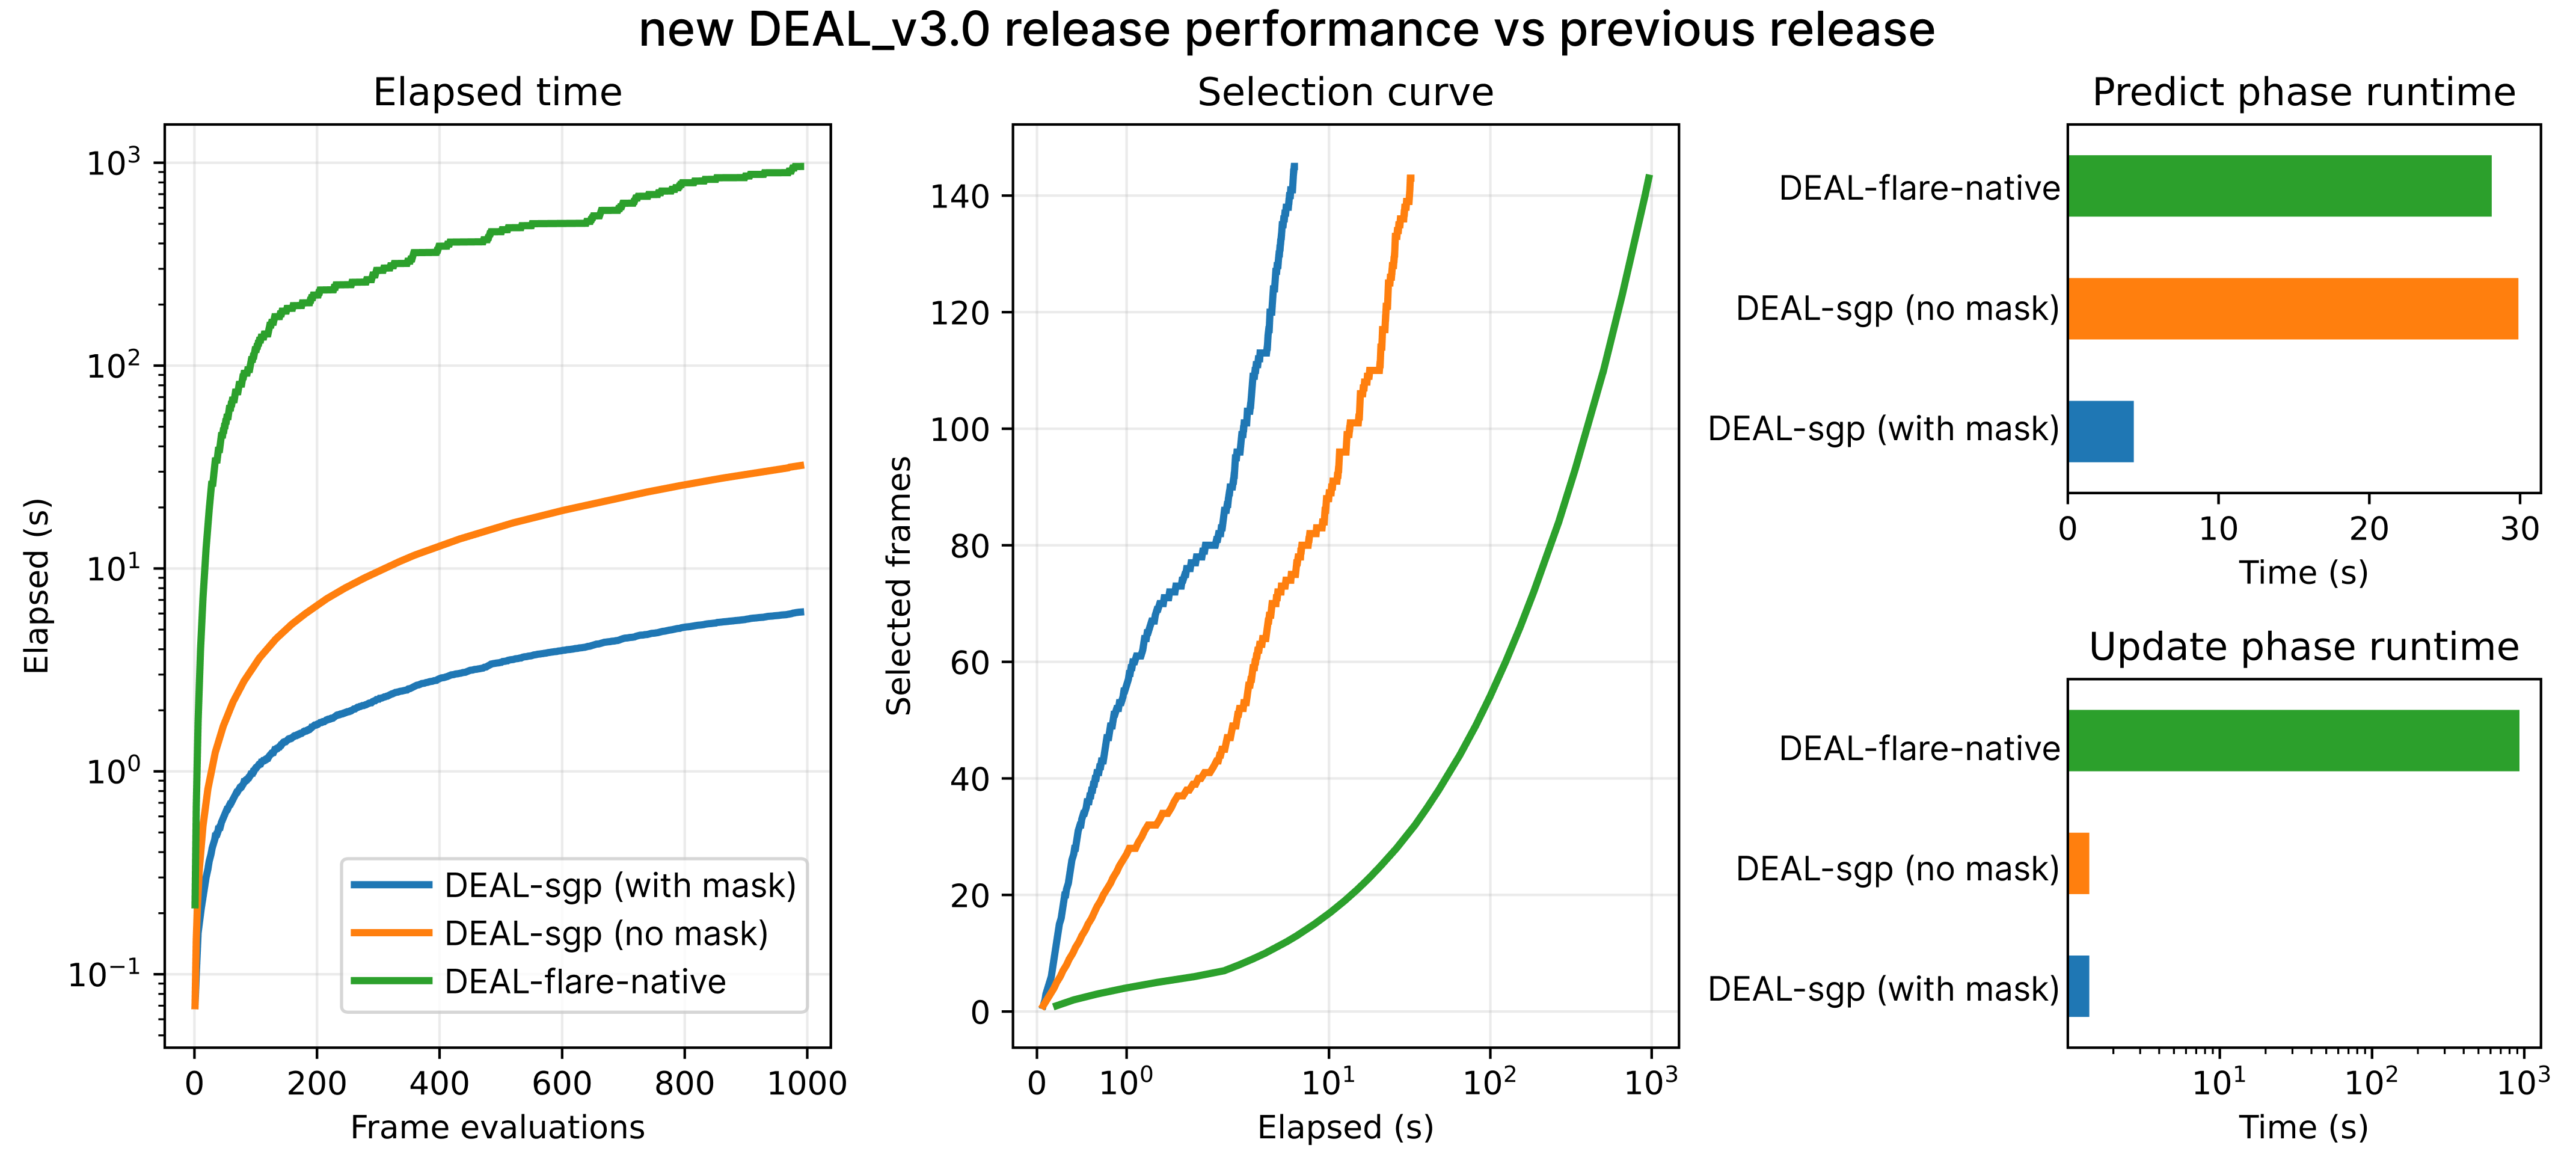
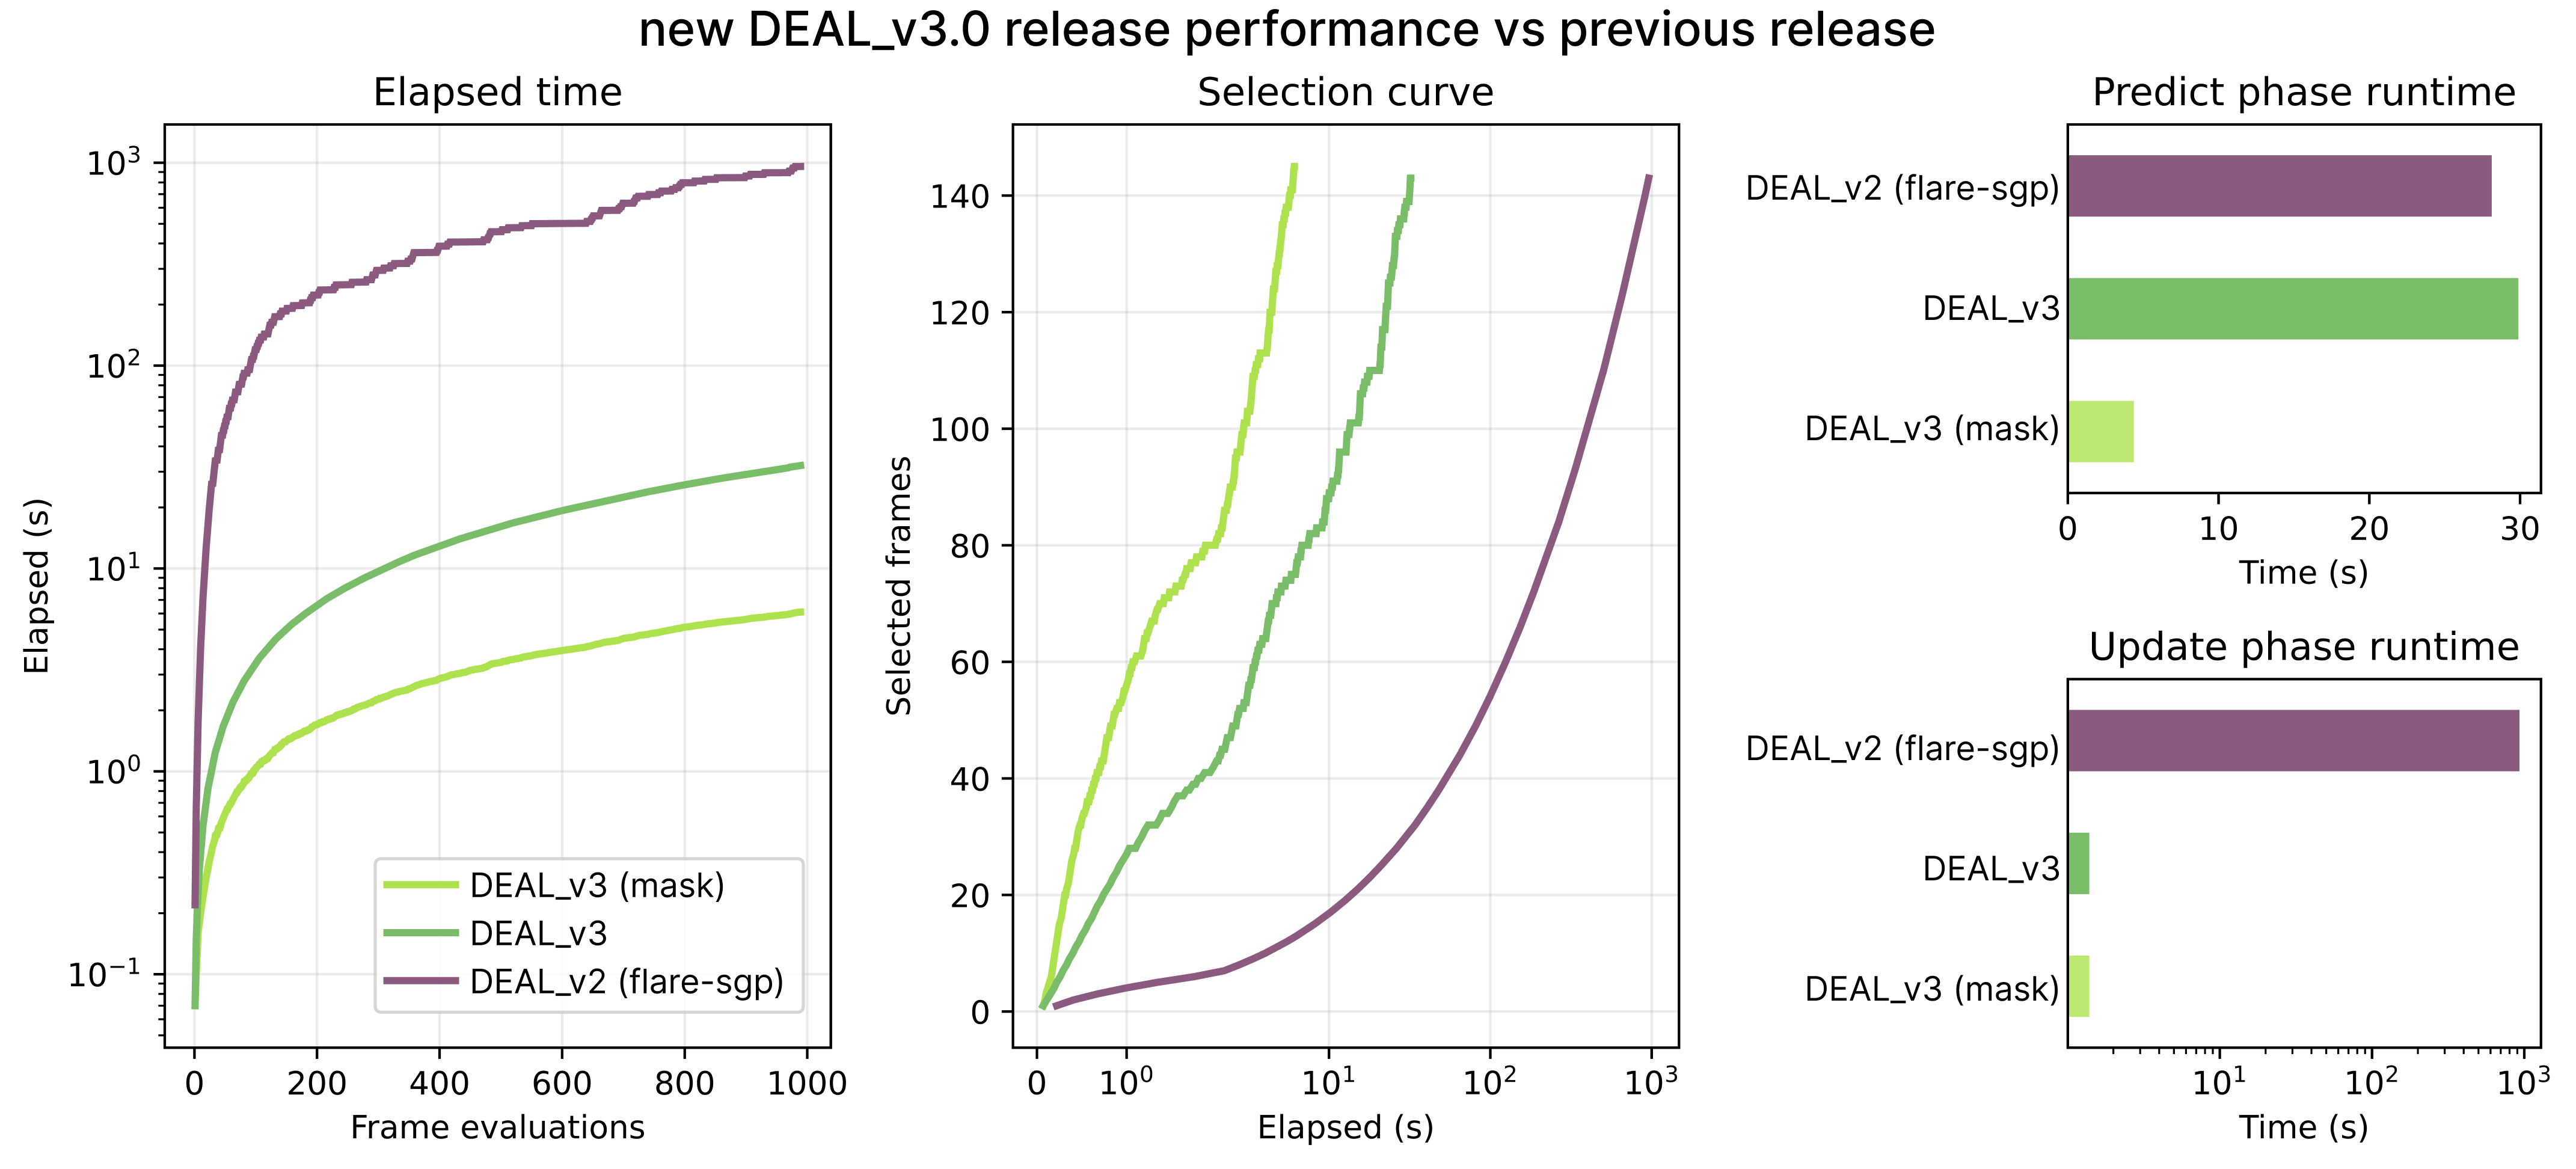
Polish documentation and timing plot

diff --git a/README.md b/README.md
@@ -7,11 +7,11 @@
 > **npj Computational Materials 10, 291 (2024)**
 > doi: [10.1038/s41524-024-01481-6](https://doi.org/10.1038/s41524-024-01481-6)
 
-DEAL selects non-redundant structures from atomistic trajectories via Sparse Gaussian Processes (SGP), to be used to train machine-learning interatomic potentials.
+DEAL selects non-redundant structures from atomistic trajectories via sparse Gaussian processes (SGP), to be used to train machine-learning interatomic potentials.
 
 It consists of two steps:
-1. preselection using the MLP uncertainty (e.g. max uncertainty obtained with query-by-committee)
-2. select a dataset of non-redundant configurations using the local predictive variance of a Gaussian Process
+1. preselect configurations using MLP uncertainty (e.g. maximum uncertainty obtained with query-by-committee)
+2. select a dataset of non-redundant configurations using the local predictive variance of a Gaussian process
 
 In addition, step 2 can also be used to subsample a trajectory without uncertainty preselection (see the [tutorials](tutorials/README.md)).
 
@@ -115,7 +115,7 @@ Python 3.10, 3.12, and 3.14.
 
 ##  Usage
 
-DEAL can be run either with a command-line tool (`deal`) or using the python class (`DEAL`).
+DEAL can be run either with the command-line tool (`deal`) or with the Python class (`DEAL`).
 
 ---
 
@@ -154,7 +154,7 @@ data:
   #format: "extxyz"        # file format (e.g. extxyz, xyz, ...)
   #index: ":"              # frame selection [see ASE notation]
   #shuffle: false          # whether to shuffle the frames before processing 
-  #seed: 24
+  #seed: 24              # random seed used when shuffle is true
 
 # Optional: derive the candidate mask in memory from an existing per-atom
 # uncertainty array. This avoids writing an intermediate masked trajectory.
@@ -177,12 +177,12 @@ deal:
   #threshold_factor: 0.7  # threshold_i = threshold_factor**(i+1)
   
   update_threshold: null # if not set it is chosen as 0.8 * threshold
-  max_atoms_added: 0.2    # limit the number of selected environments added per configuration (can be int (number of atoms) float (0,1) (fraction of total atoms), or -1 (no limit)
+  max_atoms_added: 0.2    # limit selected environments added per configuration: integer count, fraction in (0,1), or -1 for no limit
   mask: null              # auto: preprocessing mask if configured; otherwise all atoms
   initial_atoms: null     # specify which atoms to use for GP initialization (list, fraction or number. Default: null, 1 atom per species)
   output_prefix: deal     # prefix for output files
   force_only: true
-  train_hyps: false       # whether to re-train hyperparameters at each iteration (slower) 
+  train_hyps: false       # whether to retrain hyperparameters at each iteration (slower)
   verbose: false          # allowed values: true/false/"debug"
   save_gp: false
   save_full_trajectory: false  # if true, writes <prefix>_trajectory_uncertainty.xyz with per-atom array "atomic_uncertainty"
@@ -250,9 +250,9 @@ deal:
   mask: true
 ```
 
-When `mask_threshold` is omitted, DEAL follows the automatic rule from
-`Preprocessing/evaulate_traj.ipynb`: it computes the mean of the maximum
-per-atom uncertainty in each frame, selects frames whose maximum lies between
+When `mask_threshold` is omitted, DEAL follows the automatic preprocessing
+rule: it computes the mean of the maximum per-atom uncertainty in each frame,
+selects frames whose maximum lies between
 `1.1` and `4.0` times that mean, and selects atoms above `0.3` times their
 frame's maximum. These constants can be changed with `lower_factor`,
 `upper_factor`, and `mask_fraction`.
@@ -325,7 +325,7 @@ deal:
     - 0.20
 ```
 
-Equivalent behaviour in Python:
+Equivalent behavior in Python:
 
 ```python
 for thr in [0.10, 0.15, 0.20]:
@@ -357,7 +357,7 @@ Note: `threshold` and `max_selected` are mutually exclusive in the CLI.
 
 ### Input files
 
-As explained in the [introduction](DEAL.md), DEAL builds a model for energy and forces using a sparse Gaussian process, although this is used only as a proxy for uncertainty. For this reason, DEAL expects to receive a trajectory as input, for example stored in an .extxyz file, containing both energies and forces. However, since the predictive uncertainty does not depend on the labels, these do not need to be recalculated at the DFT level; in fact, they could be obtained by evaluating the trajectory with an ML potential. 
+As explained in the [introduction](DEAL.md), DEAL builds a model for energy and forces using a sparse Gaussian process, although this is used only as a proxy for uncertainty. For this reason, DEAL expects to receive a trajectory as input, for example stored in an .extxyz file, containing both energies and forces. However, since the predictive uncertainty does not depend on the labels, these do not need to be recalculated at the DFT level; in fact, they could be obtained by evaluating the trajectory with an ML potential.
 
 ### Output files
 
@@ -387,8 +387,8 @@ Frames with no eligible atoms are skipped. If `mask: false`, every atom is
 eligible.
 
 With the B2 descriptor, masked prediction and local GP updates construct native
-neighbour lists and descriptors only for eligible central atoms. All atoms remain
-available as neighbours, so masked results are identical to filtering the full
+neighbor lists and descriptors only for eligible central atoms. All atoms remain
+available as neighbors, so masked results are identical to filtering the full
 calculation while the descriptor cost scales with the number of candidates.
 
 ### Create a chemiscope file
@@ -420,7 +420,7 @@ See also the Chemiscope [documentation](https://chemiscope.org/docs/).
 
 ## 🎛️ Choice of the parameters
 
-Below a quick guide, see the [introduction](DEAL.md) to DEAL for a more in-depth explanation.
+Below is a quick guide; see the [introduction](DEAL.md) for a more in-depth explanation.
 
 **Descriptors**
 
@@ -440,19 +440,19 @@ Local environments are characterized via the Atomic Cluster Expansion formalism 
 ```yaml
   threshold: 0.1
   update_threshold: 0.08  # if not set it is chosen as 0.8 * threshold      
-  max_atoms_added: -1 # no limit on the number of selected environment of a given configuration to the GP.
+  max_atoms_added: -1 # no limit on the number of selected environments added from a given configuration to the GP.
   initial_atoms: 0.15 # use up to 15% of the atoms (of each species) for GP initialization
   mask: null # preprocessing mask if configured; otherwise all atoms
 ```      
 
-The`threshold` parameter in the DEAL configuration controls when a local environment is flagged by the SGP’s predictive variance (normalized by the noise hyperparameter). If any environment exceeds the threshold, the GP is updated and that environment (plus any others above `update_threshold`, up to `max_atoms_added`) is added. 
+The `threshold` parameter in the DEAL configuration controls when a local environment is flagged by the SGP’s predictive variance (normalized by the noise hyperparameter). If any environment exceeds the threshold, the GP is updated and that environment (plus any others above `update_threshold`, up to `max_atoms_added`) is added.
 
 Some tips:
 
-- The uncertainty values are unitless, and range between 0 and 1. Lower threshold means more selected structures; higher threshold, fewer selections. 
-- A good starting point is around 0.1. As a rule of thumb, homogeneous, condensed and/or crystalline systems tend to have fewer different local environments and require smaller thresholds (<<0.1), whereas heterogeneous systems may require larger ones (>0.1). This is also connected with the number of species (more species -> higher treshold required).
+- The uncertainty values are unitless and range between 0 and 1. Lower threshold means more selected structures; higher threshold, fewer selections.
+- A good starting point is around 0.1. As a rule of thumb, homogeneous, condensed and/or crystalline systems tend to have fewer different local environments and require smaller thresholds (<<0.1), whereas heterogeneous systems may require larger ones (>0.1). This is also connected with the number of species (more species -> higher threshold required).
 - Try a few values and compare how many structures are selected; distributions often are very similar across thresholds, what changes is the number of structures. One can decide based on the computational budget (for DFT calculations).
-- A practical strategy is to perform **incremental selection**: start with a high threshold, then decrease it progressively until a target number of structures is reached (see [Tutorial 4](tutorials/4_incremental_selection/README.md)).
+- The recommended strategy is **incremental selection**: start with a high threshold, then decrease it progressively until a target number of structures is reached. This is easily achieved with the CLI by setting `max_selected` (or `--max-selected`; see the [minimal examples](examples/README.md) and [Tutorial 4](tutorials/4_incremental_selection/README.md)).
 - Use chemiscope/OVITO to visualize the selected structures and identify which environments triggered selection. 
 
-Note: the training time scales unfavorably with the number of samples. For a large dataset, it is advised to divide it in chuncks and run DEAL separately on each of them, and then performing a second DEAL selection on the output structures. 
+Note: the training time scales unfavorably with the number of samples. For a large dataset, it is advised to divide it into chunks, run DEAL separately on each chunk, and then perform a second DEAL selection on the output structures.

diff --git a/DEAL.md b/DEAL.md
@@ -25,8 +25,8 @@ We first introduce the ingredients used by DEAL, particularly the sparse Gaussia
 In the Atomic Cluster Expansion formalism, each atom $i$ is represented by a descriptor vector $\mathbf{d}_i$ built from its local environment $\rho_i$, that is, the list of neighbors within a cutoff radius:
 <p align="center"> <img src="imgs/ACE.png" width="300"/> </p>
 
-At high level, these descriptors encode:
-- radial information (how neighbor density varies with distance,
+At a high level, these descriptors encode:
+- radial information (how neighbor density varies with distance),
 - angular information (how neighbors are arranged in direction),
 - chemical identity (which species contribute to the local density).
 
@@ -36,7 +36,7 @@ Relevant config parameters are:
 - `sgp.descriptors.lmax` (angular resolution)
 
 Notes:
-- **Multiple species**. For multi-component systems, neighbor density of different species are concatenated, so environments with similar geometry but different chemistry remain distinguishable.
+- **Multiple species**. For multi-component systems, neighbor densities of different species are concatenated, so environments with similar geometry but different chemistry remain distinguishable.
 - **Radial resolution**. For fixed `nmax`, increasing `cutoff` expands the spatial domain represented by the same number of radial basis functions, decreasing radial detail per unit distance. A useful rule-of-thumb is: $\Delta r \sim \frac{r_c}{n_{\max}}$, where $r_c$ is the cutoff. If `cutoff` is increased, `nmax` should be increased as well to avoid losing resolution.
 
 ### 2.2 Energy model and kernel representation
@@ -68,13 +68,13 @@ So the model compares each current environment against reference environments in
 
 ### 2.3 GP predictive variance 
 
-The key feature of a GP is that it provides a predictions of both the value and its associated uncertainty. For a query local environment $\rho$, the GP predictive variance associated with the the atomic energy contribution has the form:
+The key feature of a GP is that it provides predictions of both the value and its associated uncertainty. For a query local environment $\rho$, the GP predictive variance associated with the atomic energy contribution has the form:
 
 $$
 \mathrm{Var}[\varepsilon(\rho)] =\frac{k(\rho,\rho)-\mathbf{k}^\top\mathbf{K}^{-1}\mathbf{k}}{ \sigma^2}
 $$
 
-which depends on the matrix of kernel similarities between the enviroment and the reference set $\mathbf{k}$ (each element is $k(\rho,\rho_m)$ ), as well as the one between the reference structures themselves ($\mathbf{K}$). In other words, the predicted uncertainty is based only on structural novelty measured in local-environment space, not on the (DFT) energies. DEAL reports the variance normalized by the signal hyperparameter $\sigma$, yielding a unitless value.
+which depends on the matrix of kernel similarities between the environment and the reference set $\mathbf{k}$ (each element is $k(\rho,\rho_m)$ ), as well as the one between the reference structures themselves ($\mathbf{K}$). In other words, the predicted uncertainty is based only on structural novelty measured in local-environment space, not on the (DFT) energies. DEAL reports the variance normalized by the signal hyperparameter $\sigma$, yielding a unitless value.
 
 ## 3) How DEAL selection works
 
@@ -90,17 +90,17 @@ Relevant `deal` config parameters:
 - `deal.threshold`: uncertainty value which triggers selection. 
 - `deal.update_threshold`: threshold for adding additional environments from the same selected structure 
 - `deal.max_atoms_added`: cap on how many local environments are added per selected structure.
-- `deal.initial_atoms`: which atoms add to the sparse set in the first configuration (index or percentage).
+- `deal.initial_atoms`: which atoms are added to the sparse set in the first configuration (index or percentage).
 
 ## 4) Practical guidance for threshold choice and workflow
 
-- The uncertainty values are unitless, and range between 0 and 1. Lower threshold means more selected structures; higher threshold, fewer selections. 
-- A good starting point is around 0.1. As a rule of thumb, homogeneous, condensed and/or crystalline systems tend to have fewer different local environments and require smaller thresholds (<<0.1), whereas heterogeneous systems may require larger ones (>0.1). This is also connected with the number of species (more species -> higher treshold required).
+- The uncertainty values are unitless and range between 0 and 1. Lower threshold means more selected structures; higher threshold, fewer selections.
+- A good starting point is around 0.1. As a rule of thumb, homogeneous, condensed and/or crystalline systems tend to have fewer different local environments and require smaller thresholds (<<0.1), whereas heterogeneous systems may require larger ones (>0.1). This is also connected with the number of species (more species -> higher threshold required).
 - Try a few values and compare how many structures are selected; distributions often are very similar across thresholds, what changes is the number of structures. One can decide based on the computational budget (for DFT calculations).
-- A practical strategy is to perform **incremental selection**: start with a high threshold, then decrease it progressively until a target number of structures is reached (see example #4).
-- Use chemiscope to inspect selected structures and identify which environments triggered selection (see example #2)
+- The recommended strategy is **incremental selection**: start with a high threshold, then decrease it progressively until a target number of structures is reached. This is easily achieved with the CLI by setting `max_selected` (or `--max-selected`; see the [minimal examples](examples/README.md) and [Tutorial 4](tutorials/4_incremental_selection/README.md)).
+- Use chemiscope to inspect selected structures and identify which environments triggered selection (see [Tutorial 2](tutorials/2_subsampling_formate/README.md)).
 
-Note: the training time scales unfavorably with the number of samples. For a large dataset, it is advised to divide it in chuncks and run DEAL separately on each of them, and then performing a second DEAL selection on the output structures. 
+Note: the training time scales unfavorably with the number of samples. For a large dataset, it is advised to divide it into chunks, run DEAL separately on each chunk, and then perform a second DEAL selection on the output structures.
 
 ## References
 

diff --git a/npj_supporting_data/configs/deal/README.md b/npj_supporting_data/configs/deal/README.md
@@ -1,10 +1,10 @@
 ## DEAL configuration files
 
-This folder contains the config file for the DEAL (Data-Efficient Active Learning) scheme, which uses the uncertainty on the local environments provided by the GP as a way to identify a small set of non-redundant configurations from a trajectory (e.g. composed by high-uncertainty configurations). In particular, we use FLARE to train the GP.
+This folder contains the config files for the DEAL (Data-Efficient Active Learning) scheme, which uses the uncertainty of local environments provided by the GP to identify a small set of non-redundant configurations from a trajectory (e.g. one composed of high-uncertainty configurations). In particular, we use FLARE to train the GP.
 
 Two settings are available in the `configs/deal/`:
 
-* `deal-pretrain-dft.yaml`: the selection is made using a pre-trained GP model on DFT energies/forces, and performing the DFT calculations on-the-fly
+* `deal-pretrain-dft.yaml`: the selection is made using a GP model pretrained on DFT energies/forces while performing DFT calculations on the fly
 * `deal-nodft.yaml`: train a model from scratch, using the MD energy/forces as labels, and only at the end perform the single-point calculations on the selected structures
 
-These two strategies can deliver a very similar selection of the structures (see SI of the manuscript), but the second one is much faster as no DFT calculations are performed serially, but they can be done at the end in an embarassingly parallel way. 
+These two strategies can deliver a very similar selection of structures (see SI of the manuscript), but the second one is much faster because no DFT calculations are performed serially; they can be done at the end in an embarrassingly parallel way.

diff --git a/tutorials/4_incremental_selection/README.md b/tutorials/4_incremental_selection/README.md
@@ -1,6 +1,6 @@
 ## Incremental selection 
 
-In addition to the standard mode which requires to specify a threshold, one can also run in an incremental mode, that is, running DEAL in multiple iterations with progressively
+In addition to the standard mode, which requires specifying a threshold, DEAL can also run in incremental mode, using multiple iterations with progressively
 lower thresholds, so you can stop when a target number of selected structures is reached instead of picking a single threshold upfront.
 
 <img src="incremental_DEAL_selection.png" alt="drawing" width="450"/>
@@ -59,4 +59,4 @@ deal -c input.yaml
 
 ### Deprecated Python script
 
-This functionality was first implemented as example in `incremental_DEAL.py`. This is kept as a legacy example showing how to implement incremental selection manually with `configure_run(...)` and analyzing the result in more detail.
+This functionality was first implemented as an example in `incremental_DEAL.py`. This is kept as a legacy example showing how to implement incremental selection manually with `configure_run(...)` and analyze the result in more detail.

diff --git a/tutorials/README.md b/tutorials/README.md
@@ -6,7 +6,7 @@
 - Data: Nitrogen dissociation on FeCo(110) surface, collected via OPES enhanced sampling simulations, taken from Perego and Bonati, *npj Computational Materials* 10, 291 (2024), doi: [10.1038/s41524-024-01481-6](https://doi.org/10.1038/s41524-024-01481-6)
 
 - Summary: 
-    1. pre-select high uncertainty configurations based on ensemble-based standard deviation
+    1. preselect high-uncertainty configurations based on ensemble standard deviation
     2. filter them using the GP predictive variance to identify structurally different configurations
     3. analyze distribution of selected CVs
 
@@ -26,7 +26,7 @@ ___
 
 ### [3. Preselection](3_preselection/README.md)
 
-- Illustrate how to preprocess trajectory based on uncertainty (query-by-committe), using MACE or DeepMD.
+- Illustrates how to preprocess a trajectory based on uncertainty (query-by-committee), using MACE or DeepMD.
 - Notebooks: 
   - [MACE](3_preselection/mace/mace-preselection.ipynb)
   - [DeepMD](3_preselection/deepmd/deepmd-preselection.ipynb)

diff --git a/examples/2_formate_without_preselection/README.md b/examples/2_formate_without_preselection/README.md
@@ -12,9 +12,6 @@ curl --fail --location \
   --output traj.xyz
 ```
 
-If you previously ran the old command, run this corrected command again to
-replace the invalid `traj.xyz` file.
-
 Run with the minimal YAML configuration:
 
 ```bash

diff --git a/npj_supporting_data/configs/flare/README.md b/npj_supporting_data/configs/flare/README.md
@@ -1,6 +1,6 @@
 ## FLARE configuration files
 
-This folder contains the config files containing the default parameters for generating the FLARE inputs, with different options per each section:
+This folder contains config files with the default parameters for generating FLARE inputs, with different options for each section:
 
 **SUPERCELL**
 - supercell.yaml
@@ -17,4 +17,3 @@ This folder contains the config files containing the default parameters for gene
 - otf-pylammps.yaml
 - otf-ase.yaml
 - otf-deal.yaml
-

diff --git a/npj_supporting_data/README.md b/npj_supporting_data/README.md
@@ -1,5 +1,5 @@
 ## Notebooks
 
-Each folder contains the notebooks related to the different stages of the data-efficient construction of reactive machine learning potentials used in the npj computational material paper.
+Each folder contains the notebooks related to the different stages of the data-efficient construction of reactive machine learning potentials used in the npj Computational Materials paper.
 
 **PLEASE NOTE**: These files are provided for reproducibility purposes only. A preliminary version of the DEAL code was used at the time, so please refer to the tutorials for the latest API and documentation.

diff --git a/npj_supporting_data/mlputils/mace/README.md b/npj_supporting_data/mlputils/mace/README.md
@@ -9,4 +9,4 @@ Training is divided in two steps, similar to the swa recipe from MACE.
 
 # Postprocessing
 
-'mace_uncertainty.py' takes a lammps/xyz trajectory and evaluate the uncertainty on forces using an ensemble of MACE models
+`mace_uncertainty.py` takes a LAMMPS/XYZ trajectory and evaluates the uncertainty on forces using an ensemble of MACE models.

diff --git a/tutorials/1_activelearning_N2/README.md b/tutorials/1_activelearning_N2/README.md
@@ -3,7 +3,7 @@
 - Ref.: Perego and Bonati, *npj Computational Materials* 10, 291 (2024), doi: [10.1038/s41524-024-01481-6](https://doi.org/10.1038/s41524-024-01481-6)
 - Data: Nitrogen dissociation on FeCo(110) surface, collected via OPES enhanced sampling simulations.
 - Summary: 
-    1. pre-select high uncertainty configurations based on ensemble-based standard deviation
+    1. preselect high-uncertainty configurations based on ensemble standard deviation
     2. filter them using the GP predictive variance to identify structurally different configurations
     3. analyze distribution of selected CVs
 - See also the notebooks in: `notebooks/2_convergence/` of the [supporting material (v1.0.0)](https://github.com/luigibonati/DEAL/tree/v1.0.0)

diff --git a/tutorials/3_preselection/README.md b/tutorials/3_preselection/README.md
@@ -1,6 +1,6 @@
 ## 3 Pre-selection
 
-Illustrate how to preprocess trajectory based on uncertainty (query-by-committee), using MACE or DeepMD.
+Illustrates how to preprocess a trajectory based on uncertainty (query-by-committee), using MACE or DeepMD.
 
 * [MACE](mace/mace-preselection.ipynb)
 * [DeepMD](deepmd/deepmd-preselection.ipynb)